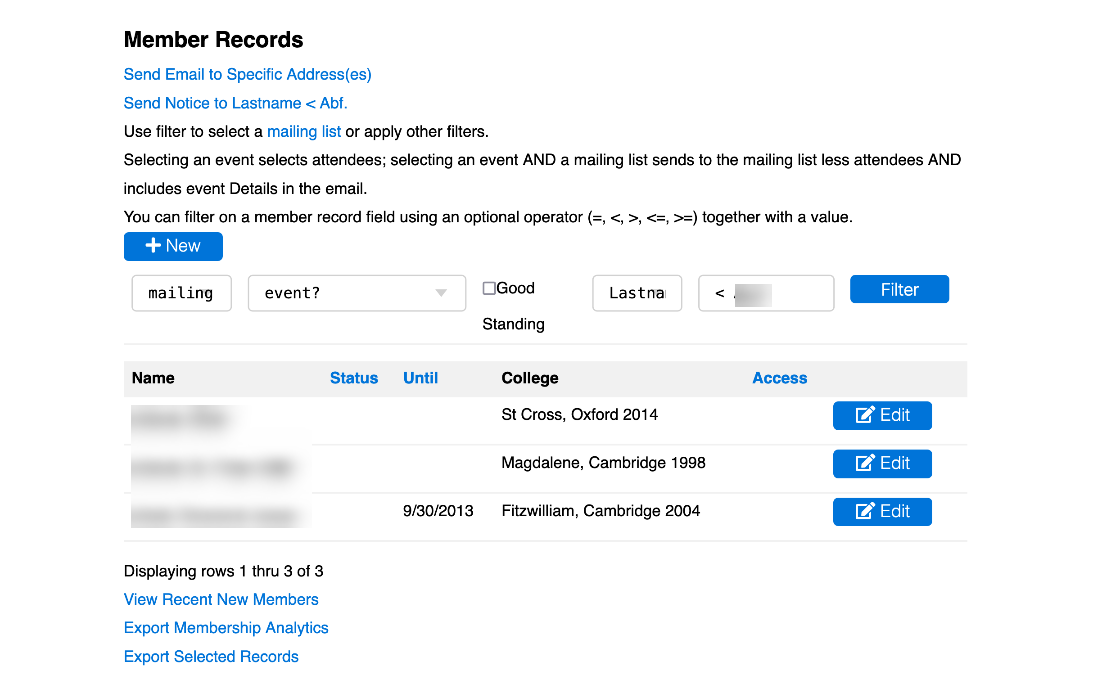
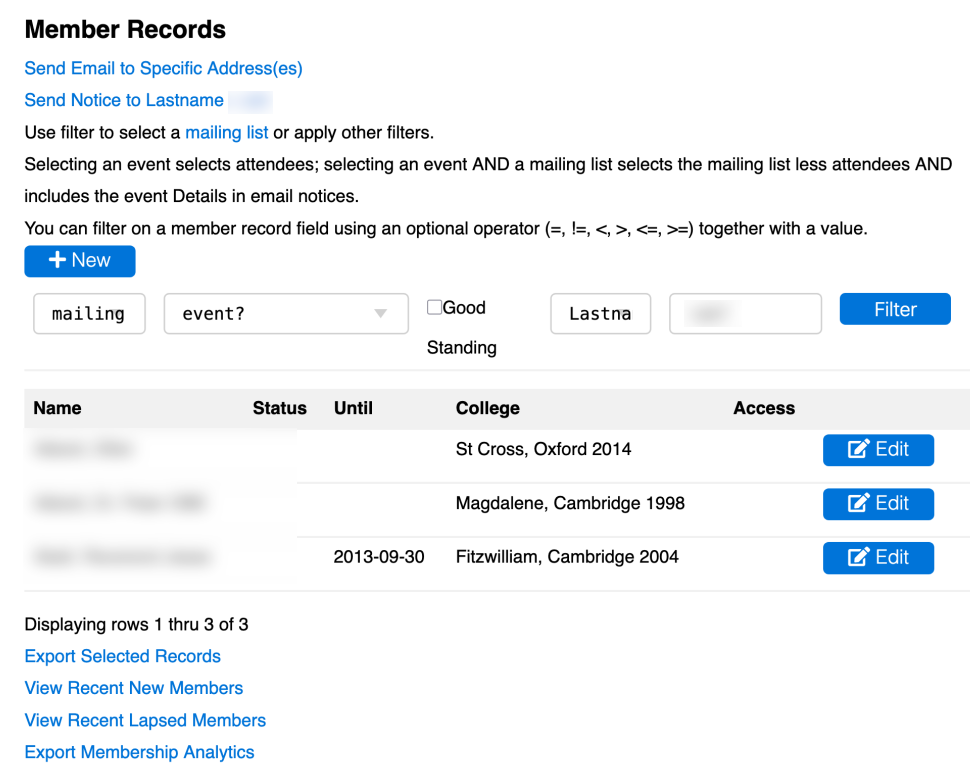
bug in membership registration validation

diff --git a/controllers.py b/controllers.py
@@ -2825,8 +2825,11 @@ XML(f"This event is open to \
 		if form.vars.get('affiliation') and (not affinity or not affinity.Matr) and not form.vars.get('matr'):
 			form.errors['matr'] = 'please enter your matriculation year'
 		if form.vars.get('matr') == this_year:
-			if not freshers:
-				form.errors['matr'] = 'This event is not open to freshers, please contact '+SUPPORT_EMAIL
+			if event:
+				if not freshers:
+					form.errors['matr'] = 'This event is not open to freshers, please contact '+SUPPORT_EMAIL
+			else:
+				form.errors['matr'] = 'Freshers are not eligible for membership, please contact '+SUPPORT_EMAIL	
 		if event and event.Members_only and form.vars.get('join_or_renew')==False:
 			form.errors['join_or_renew'] = 'This event is for members only, please join/renew to attend'
 		if form.vars.get('membership'):

diff --git a/utilities.py b/utilities.py
@@ -100,7 +100,7 @@ def get_banks(startdatetime, enddatetime):
 	for r in rows:
 		d = [(bank_balance(r.id, startdatetime, balance=r.Balance), None, None),
 				(bank_balance(r.id, enddatetime, balance=r.Balance), None, None),
-				r.Name + f'{r.Name} balance']
+				f'{r.Name} balance']
 		assets[r.Name] = d
 	return assets
 

diff --git a/__init__.py b/__init__.py
@@ -10,6 +10,6 @@ from .models import db
 from . import pay_processors, daily_maintenance, email_daemon, session, tools, website, controllers
 
 # optional parameters
-__version__ = "v1.2.16"
+__version__ = "v1.2.17"
 __author__ = "dgmanns@gmail.com"
 __license__ = "BSDv3"

diff --git a/docs/members.md b/docs/members.md
@@ -52,6 +52,12 @@ the database.
 
 *View Recent New Members* displays a grid of recent new/reinstated members in reverse chronological order, without regard for the member filter. This is based on dues payments recorded in accounts,so does not include a member until their dues payment has been uploaded into accounts. This information normally finds its way into the Membership Secretary's report to which it will be copy/pasted.
 
+On-screen, the name column entries are links to the member record.
+
+*View Recent Lapsed Members* displays a grid of recently lapsed members in reverse chronological order of their membership expiration, either by failure to renew manually, or by direct cancellation of subscription and without regard for the member filter. Note that expiration always occurs at the end of the pre-paid period, we don't refund membership dues. This information normally finds its way into the Membership Secretary's report to which it will be copy/pasted.
+
+On-screen, the name, lapsed, and attended columns are short cut links to the member record, list of dues payments, and list of events attended, respectively.
+
 *Export Membership Analytics* is used by the Membership Secretary to analyze year to year membership demographics; it is also exported in raw .csv format.
 
 *Export Selected Records* exports a .csv file including all member records, or those selected by the filter if a filter is used.
